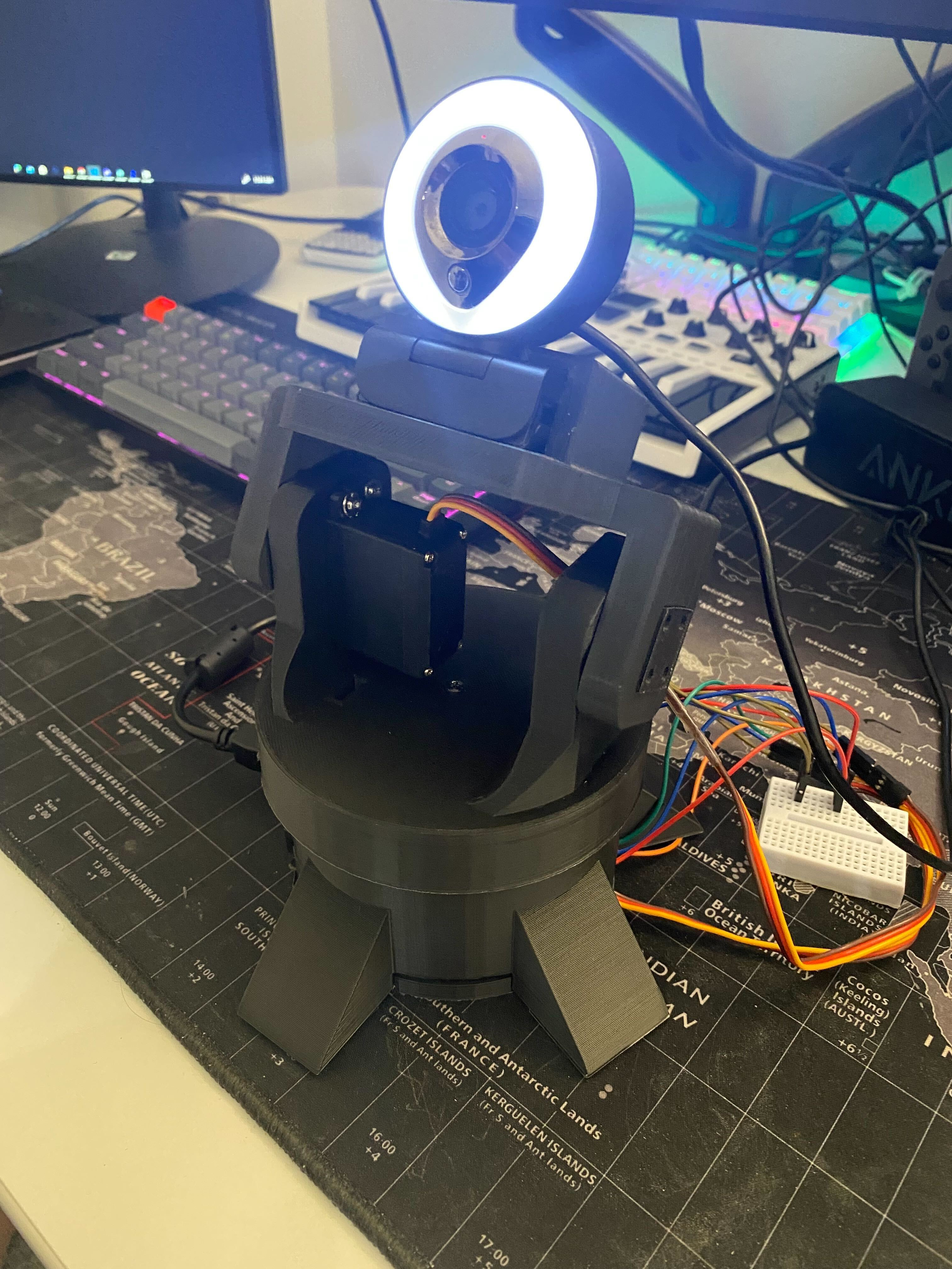
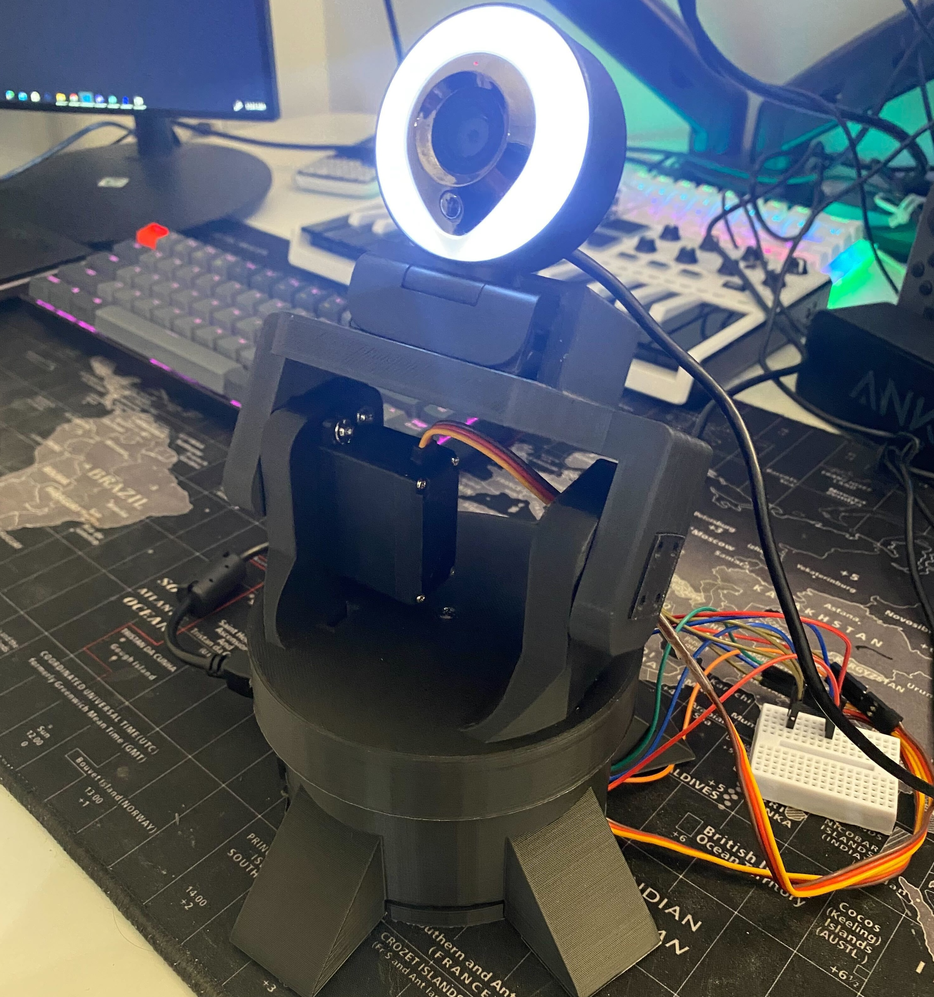
side project

diff --git a/_posts/2022-12-27-object-detection.md b/_posts/2022-12-27-object-detection.md
@@ -2,7 +2,7 @@
 layout: post
 title:  "Face Tracking Camera"
 date:   2022-12-27 22:21:59 +00:00
-image: /images/Hardware.jpg
+image: /images/Hardware1.jpg
 categories: Other
 author: "Daniel Choi"
 subtitle: "Side Project"
